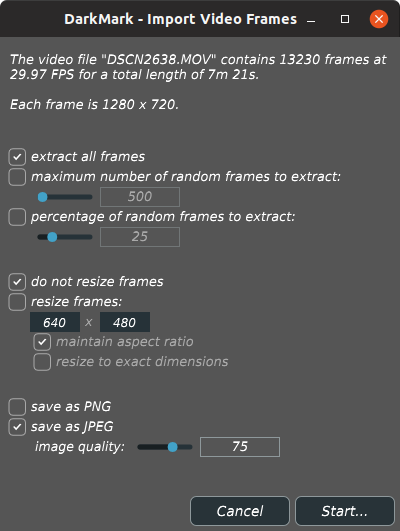
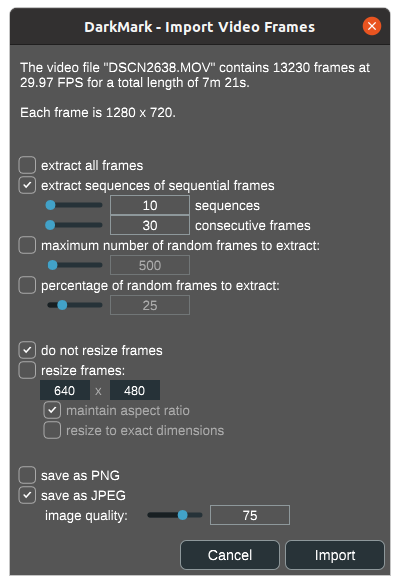
video import now has an option to import sequences of consecutive frames

Changed region(s): [[0.0, 0.0, 1.0, 1.0]]

diff --git a/src-launcher/VideoImportWindow.cpp b/src-launcher/VideoImportWindow.cpp
@@ -7,11 +7,16 @@
 
 
 dm::VideoImportWindow::VideoImportWindow(const std::string & dir, const VStr & v) :
-	DocumentWindow("DarkMark - Import Video Frames", Colours::darkgrey, TitleBarButtons::allButtons),
+	DocumentWindow("DarkMark - Import Video Frames", Colours::darkgrey, TitleBarButtons::closeButton),
 	ThreadWithProgressWindow("DarkMark", true, true							),
 	base_directory			(dir											),
 	filenames				(v												),
 	tb_extract_all			("extract all frames"							),
+	tb_extract_sequences	("extract sequences of sequential frames"		),
+	sl_sequences			(Slider::SliderStyle::LinearHorizontal, Slider::TextEntryBoxPosition::TextBoxRight),
+	txt_sequences			("", "sequences"								),
+	sl_consecutive_frames	(Slider::SliderStyle::LinearHorizontal, Slider::TextEntryBoxPosition::TextBoxRight),
+	txt_consecutive_frames	("", "consecutive frames"						),
 	tb_extract_maximum		("maximum number of random frames to extract:"	),
 	sl_maximum				(Slider::SliderStyle::LinearHorizontal, Slider::TextEntryBoxPosition::TextBoxRight),
 	tb_extract_percentage	("percentage of random frames to extract:"		),
@@ -26,7 +31,7 @@ dm::VideoImportWindow::VideoImportWindow(const std::string & dir, const VStr & v
 	txt_jpeg_quality		("", "image quality:"							),
 	sl_jpeg_quality			(Slider::SliderStyle::LinearHorizontal, Slider::TextEntryBoxPosition::TextBoxRight),
 	cancel					("Cancel"),
-	ok						("Start..."),
+	ok						("Import"),
 	number_of_processed_frames(0)
 {
 	setContentNonOwned		(&canvas, true	);
@@ -36,6 +41,11 @@ dm::VideoImportWindow::VideoImportWindow(const std::string & dir, const VStr & v
 
 	canvas.addAndMakeVisible(header_message			);
 	canvas.addAndMakeVisible(tb_extract_all			);
+	canvas.addAndMakeVisible(tb_extract_sequences	);
+	canvas.addAndMakeVisible(sl_sequences			);
+	canvas.addAndMakeVisible(txt_sequences			);
+	canvas.addAndMakeVisible(sl_consecutive_frames	);
+	canvas.addAndMakeVisible(txt_consecutive_frames	);
 	canvas.addAndMakeVisible(tb_extract_maximum		);
 	canvas.addAndMakeVisible(sl_maximum				);
 	canvas.addAndMakeVisible(tb_extract_percentage	);
@@ -55,6 +65,7 @@ dm::VideoImportWindow::VideoImportWindow(const std::string & dir, const VStr & v
 	canvas.addAndMakeVisible(ok						);
 
 	tb_extract_all			.setRadioGroupId(1);
+	tb_extract_sequences	.setRadioGroupId(1);
 	tb_extract_maximum		.setRadioGroupId(1);
 	tb_extract_percentage	.setRadioGroupId(1);
 
@@ -68,6 +79,7 @@ dm::VideoImportWindow::VideoImportWindow(const std::string & dir, const VStr & v
 	tb_save_as_jpeg			.setRadioGroupId(4);
 
 	tb_extract_all			.addListener(this);
+	tb_extract_sequences	.addListener(this);
 	tb_extract_maximum		.addListener(this);
 	tb_extract_percentage	.addListener(this);
 	tb_do_not_resize		.addListener(this);
@@ -79,10 +91,18 @@ dm::VideoImportWindow::VideoImportWindow(const std::string & dir, const VStr & v
 	cancel					.addListener(this);
 	ok						.addListener(this);
 
-	tb_extract_all			.setToggleState(true, NotificationType::sendNotification);
+	tb_extract_sequences	.setToggleState(true, NotificationType::sendNotification);
 	tb_do_not_resize		.setToggleState(true, NotificationType::sendNotification);
 	tb_keep_aspect_ratio	.setToggleState(true, NotificationType::sendNotification);
 	tb_save_as_jpeg			.setToggleState(true, NotificationType::sendNotification);
+
+	sl_sequences			.setRange(1.0, 999.0, 1.0);
+	sl_sequences			.setNumDecimalPlacesToDisplay(0);
+	sl_sequences			.setValue(10);
+
+	sl_consecutive_frames	.setRange(10.0, 9999.0, 1.0);
+	sl_consecutive_frames	.setNumDecimalPlacesToDisplay(0);
+	sl_consecutive_frames	.setValue(30);
 
 	sl_maximum				.setRange(1.0, 9999.0, 1.0);
 	sl_maximum				.setNumDecimalPlacesToDisplay(0);
@@ -148,7 +168,7 @@ dm::VideoImportWindow::VideoImportWindow(const std::string & dir, const VStr & v
 	}
 	else
 	{
-		centreWithSize(400, 600);
+		centreWithSize(380, 530);
 	}
 
 	setVisible(true);
@@ -204,6 +224,22 @@ void dm::VideoImportWindow::resized()
 
 	fb_rows.items.add(FlexItem(header_message			).withHeight(height * 4));
 	fb_rows.items.add(FlexItem(tb_extract_all			).withHeight(height).withMargin(new_row_indent));
+	fb_rows.items.add(FlexItem(tb_extract_sequences		).withHeight(height));
+
+	FlexBox fb_sequences_1;
+	fb_sequences_1.flexDirection	= FlexBox::Direction::row;
+	fb_sequences_1.justifyContent	= FlexBox::JustifyContent::flexStart;
+	fb_sequences_1.items.add(FlexItem(sl_sequences		).withHeight(height).withWidth(150.0f));
+	fb_sequences_1.items.add(FlexItem(txt_sequences		).withHeight(height).withWidth(150.0f));
+	fb_rows.items.add(FlexItem(fb_sequences_1			).withHeight(height).withMargin(left_indent));
+
+	FlexBox fb_sequences_2;
+	fb_sequences_2.flexDirection	= FlexBox::Direction::row;
+	fb_sequences_2.justifyContent	= FlexBox::JustifyContent::flexStart;
+	fb_sequences_2.items.add(FlexItem(sl_consecutive_frames	).withHeight(height).withWidth(150.0f));
+	fb_sequences_2.items.add(FlexItem(txt_consecutive_frames).withHeight(height).withWidth(150.0f));
+	fb_rows.items.add(FlexItem(fb_sequences_2			).withHeight(height).withMargin(left_indent));
+
 	fb_rows.items.add(FlexItem(tb_extract_maximum		).withHeight(height));
 	fb_rows.items.add(FlexItem(sl_maximum				).withHeight(height).withWidth(150.0f).withMargin(left_indent));
 	fb_rows.items.add(FlexItem(tb_extract_percentage	).withHeight(height));
@@ -259,6 +295,12 @@ void dm::VideoImportWindow::buttonClicked(Button * button)
 	bool b = tb_extract_maximum.getToggleState();
 	sl_maximum.setEnabled(b);
 
+	b = tb_extract_sequences.getToggleState();
+	sl_sequences.setEnabled(b);
+	txt_sequences.setEnabled(b);
+	sl_consecutive_frames.setEnabled(b);
+	txt_consecutive_frames.setEnabled(b);
+
 	b = tb_extract_percentage.getToggleState();
 	sl_percentage.setEnabled(b);
 
@@ -296,8 +338,11 @@ void dm::VideoImportWindow::run()
 	try
 	{
 		const bool extract_all_frames		= tb_extract_all		.getToggleState();
+		const bool extract_sequences		= tb_extract_sequences	.getToggleState();
 		const bool extract_maximum_frames	= tb_extract_maximum	.getToggleState();
 		const bool extract_percentage		= tb_extract_percentage	.getToggleState();
+		const double number_of_sequences	= sl_sequences			.getValue();
+		const double consecutive_frames		= sl_consecutive_frames	.getValue();
 		const double maximum_to_extract		= sl_maximum			.getValue();
 		const double percent_to_extract		= sl_percentage			.getValue() / 100.0;
 		const bool resize_frame				= tb_resize				.getToggleState();
@@ -326,6 +371,11 @@ void dm::VideoImportWindow::run()
 			if (extract_all_frames)
 			{
 				work_to_be_done += number_of_frames;
+			}
+			if (extract_sequences)
+			{
+				const double work = number_of_sequences * consecutive_frames;
+				work_to_be_done += std::min(work, number_of_frames);
 			}
 			else if (extract_maximum_frames)
 			{
@@ -365,7 +415,55 @@ void dm::VideoImportWindow::run()
 			std::uniform_int_distribution<size_t> uni(0, number_of_frames - 1);
 
 			std::set<size_t> frames_needed;
-			if (extract_maximum_frames)
+			if (extract_sequences)
+			{
+				/* Say the video is this long:
+				 *
+				 *		[...............................]
+				 *
+				 * If we need to extract 3 sequences, then we divide it into 3+1 sections:
+				 *
+				 *		[...............................]
+				 *		|		|		|		|		|
+				 *		0		1		2		3		4
+				 *
+				 * Each of those numbered sections becomes the mid-point of a sequence,
+				 * so we take some frames before and some frames after each mid-point.
+				 */
+				for (size_t sequence_counter = 1; sequence_counter <= number_of_sequences; sequence_counter ++)
+				{
+					const size_t mid_point = number_of_frames * sequence_counter / (number_of_sequences + 1);
+					const size_t half = consecutive_frames / 2;
+					size_t min_point = 0;
+					size_t max_point = mid_point + half;
+					if (mid_point > half)
+					{
+						min_point = mid_point - half;
+					}
+					if (max_point > number_of_frames - 1)
+					{
+						max_point = number_of_frames - 1;
+					}
+
+					// if the number of frames is even, then the mid point + 2 * half will give us 1 too many frames
+					if (max_point - min_point + 1 > consecutive_frames)
+					{
+						max_point -= 1;
+					}
+
+					Log("sequence counter .. " + std::to_string(sequence_counter));
+					Log("-> min point ...... " + std::to_string(min_point));
+					Log("-> mid point ...... " + std::to_string(mid_point));
+					Log("-> max point ...... " + std::to_string(max_point));
+					Log("-> total frames ... " + std::to_string(max_point - min_point + 1));
+
+					for (size_t frame = min_point; frame <= max_point; frame ++)
+					{
+						frames_needed.insert(frame);
+					}
+				}
+			}
+			else if (extract_maximum_frames)
 			{
 				while (threadShouldExit() == false and frames_needed.size() < std::min(number_of_frames, maximum_to_extract))
 				{
@@ -385,7 +483,7 @@ void dm::VideoImportWindow::run()
 			size_t frame_number = 0;
 			while (threadShouldExit() == false)
 			{
-				if (extract_maximum_frames or extract_percentage)
+				if (extract_sequences or extract_maximum_frames or extract_percentage)
 				{
 					if (frames_needed.empty())
 					{
@@ -393,10 +491,14 @@ void dm::VideoImportWindow::run()
 						break;
 					}
 
-					// we need to skip to a specific frame
-					frame_number = *frames_needed.begin();
-					frames_needed.erase(frame_number);
-					cap.set(cv::VideoCaptureProperties::CAP_PROP_POS_FRAMES, static_cast<double>(frame_number));
+					const auto next_frame_needed = *frames_needed.begin();
+					frames_needed.erase(next_frame_needed);
+					if (frame_number != next_frame_needed)
+					{
+						// only explicitely set the absolute frame position if the frames are not consecutive
+						cap.set(cv::VideoCaptureProperties::CAP_PROP_POS_FRAMES, static_cast<double>(next_frame_needed));
+						frame_number = next_frame_needed;
+					}
 				}
 
 				cv::Mat mat;

diff --git a/src-launcher/VideoImportWindow.hpp b/src-launcher/VideoImportWindow.hpp
@@ -31,6 +31,11 @@ namespace dm
 
 			Label			header_message;
 			ToggleButton	tb_extract_all;
+			ToggleButton	tb_extract_sequences;
+			Slider			sl_sequences;
+			Label			txt_sequences;
+			Slider			sl_consecutive_frames;
+			Label			txt_consecutive_frames;
 			ToggleButton	tb_extract_maximum;
 			Slider			sl_maximum;
 			ToggleButton	tb_extract_percentage;
